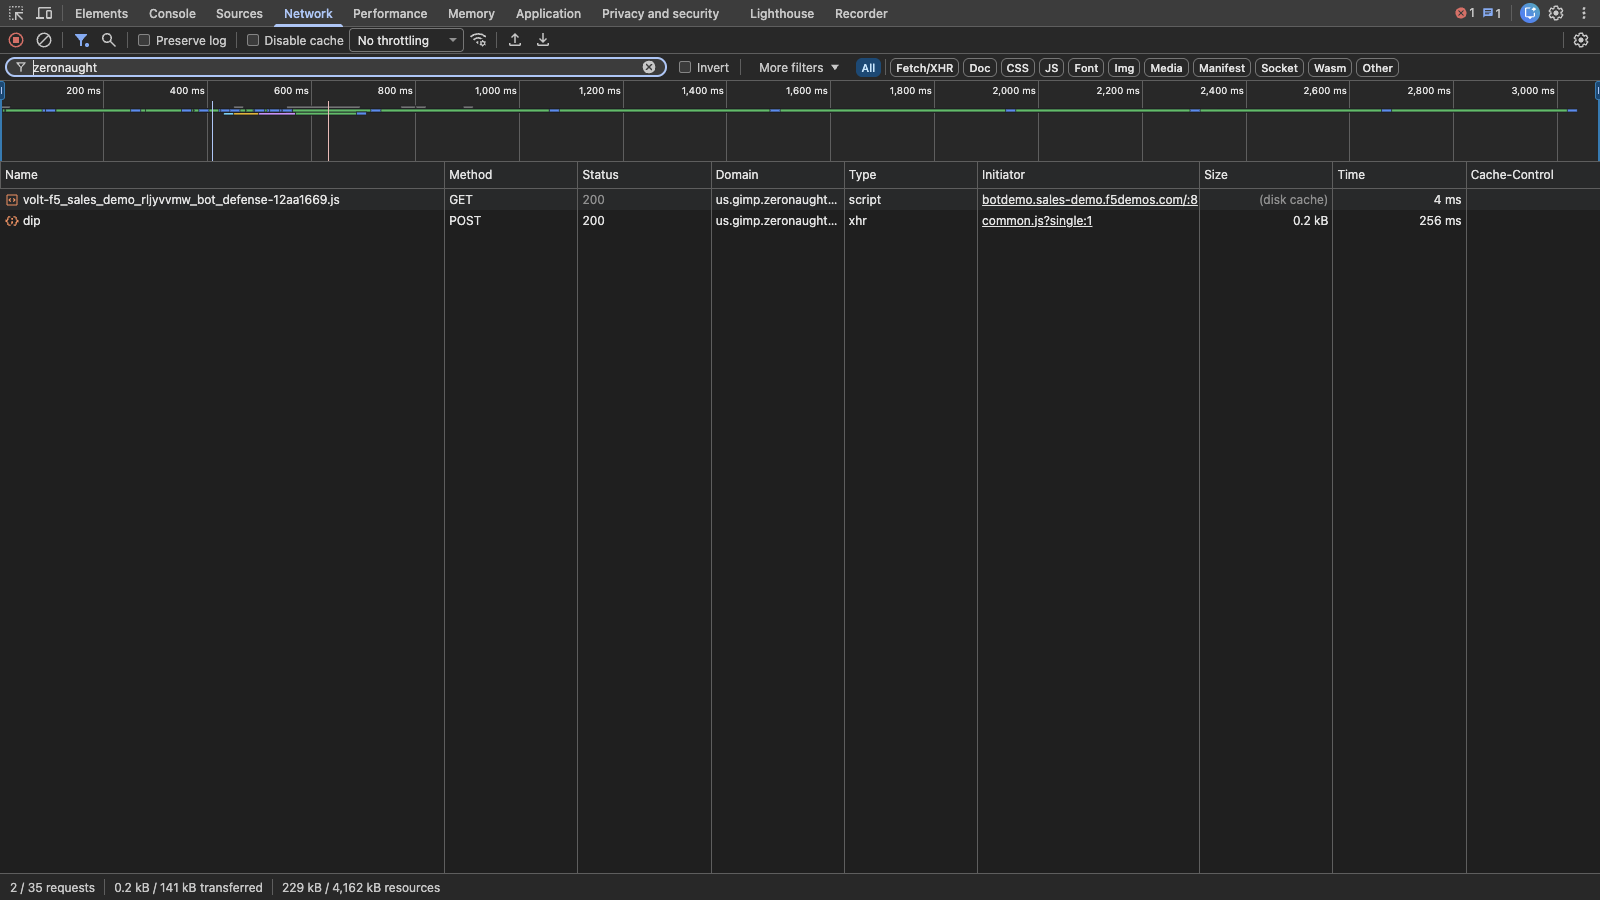
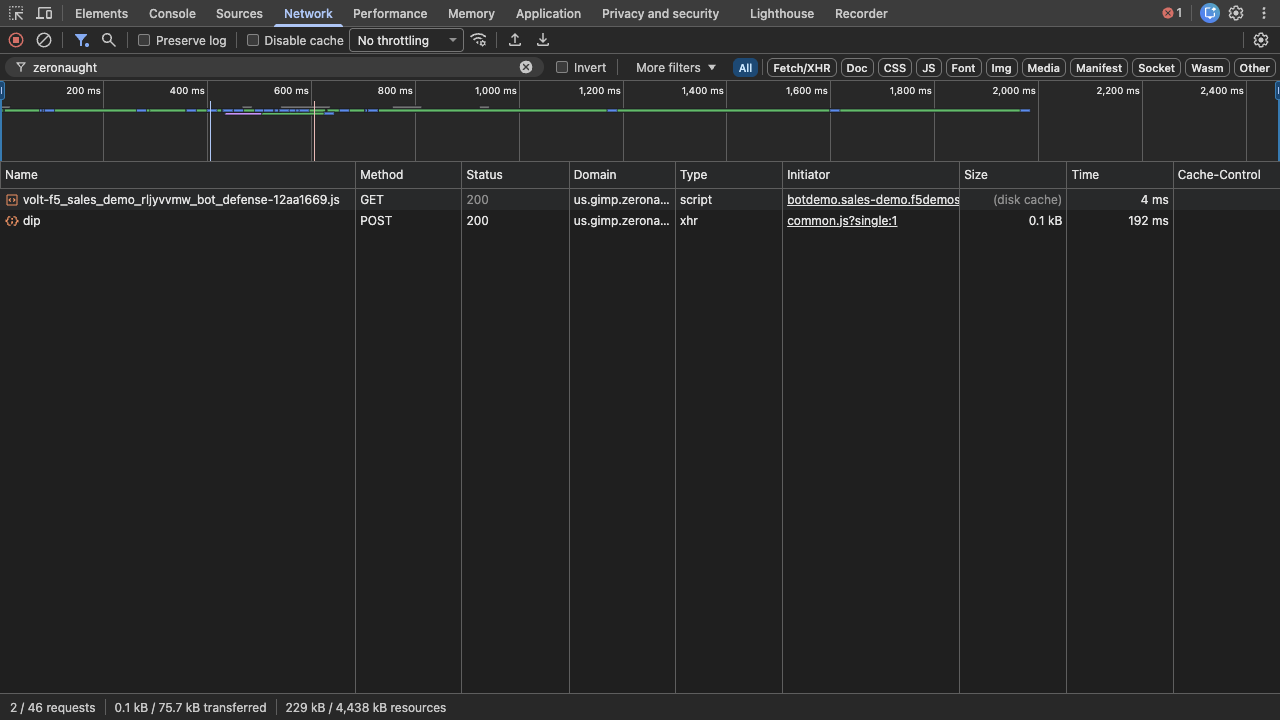
fix: recapture DevTools screenshots at 1280x720 for improved readability (#183)
Introduces a dual-resolution standard: page screenshots remain at 1600x900
(HD+) while DevTools screenshots move to 1280x720 (HD). Both are 16:9 at
1x DPR. The smaller DevTools viewport makes text ~20% larger relative to
image dimensions, significantly improving legibility when scaled down on
the docs site.

Closes #182

diff --git a/SCREENSHOT-INSTRUCTIONS.md b/SCREENSHOT-INSTRUCTIONS.md
@@ -6,20 +6,26 @@ Instructions for programmatically configuring, interacting with, and screenshott
 
 ## Screenshot Dimensions Standard
 
-All screenshots in this project must be **1600x900 pixels at 1x DPR (16:9)**. This is the industry-standard documentation aspect ratio and produces clean, focused captures of the XC console UI.
+This project uses a **dual-resolution standard** — both 16:9 aspect ratio, at 1x DPR:
 
-| Property | Value |
-| --- | --- |
-| Target dimensions | 1600 x 900 px (16:9) |
-| Device pixel ratio | 1x |
-| Format | PNG |
-| Location | `docs/images/` |
-| Naming convention | `<name>-light.png` / `<name>-dark.png` for theme variants |
+| Screenshot type | Dimensions | Rationale |
+| --- | --- | --- |
+| **Page screenshots** (XC console, web app) | **1600 x 900** (HD+) | Full-width UI captures render well in the docs content column |
+| **DevTools screenshots** (Network, Console, Elements) | **1280 x 720** (HD) | Smaller viewport makes DevTools text ~20% larger relative to the image, improving readability when scaled down on the docs site |
+
+| Property | Page | DevTools |
+| --- | --- | --- |
+| Target dimensions | 1600 x 900 px | 1280 x 720 px |
+| Aspect ratio | 16:9 | 16:9 |
+| Device pixel ratio | 1x | 1x |
+| Format | PNG | PNG |
+| Location | `docs/images/` | `docs/images/` |
+| Naming convention | `<name>-light.png` / `<name>-dark.png` | `<name>-light.png` / `<name>-dark.png` |
 
 **How this applies to each approach:**
 
 - **Page screenshots** (chrome-devtools-mcp): Use `emulate` with viewport `"1600x900x1"` before capture — this forces exact pixel dimensions at 1x DPR. Verify with `sips -g pixelWidth -g pixelHeight`.
-- **DevTools screenshots** (CDP): Use `Emulation.setDeviceMetricsOverride` with `width: 1600, height: 900, deviceScaleFactor: 1` before `Page.captureScreenshot` — captures at exact 1600x900. No post-capture resize needed. Verify with `sips -g pixelWidth -g pixelHeight`.
+- **DevTools screenshots** (CDP): Use `Emulation.setDeviceMetricsOverride` with `width: 1280, height: 720, deviceScaleFactor: 1` before `Page.captureScreenshot` — captures at exact 1280x720. No post-capture resize needed. Verify with `sips -g pixelWidth -g pixelHeight`.
 - **After all page captures**: Reset emulation with `emulate` viewport `"0x0x0"` to restore defaults.
 
 ---
@@ -536,11 +542,11 @@ const outputPath = process.argv[3] || 'devtools-screenshot.png';
 
 const ws = new WebSocket(wsUrl);
 ws.on('open', () => {
-    // Force DevTools viewport to exact 1600x900 at 1x DPR
+    // Force DevTools viewport to exact 1280x720 at 1x DPR
     ws.send(JSON.stringify({
         id: 1,
         method: 'Emulation.setDeviceMetricsOverride',
-        params: { width: 1600, height: 900, deviceScaleFactor: 1, mobile: false }
+        params: { width: 1280, height: 720, deviceScaleFactor: 1, mobile: false }
     }));
 });
 
@@ -577,7 +583,7 @@ JSEOF
 NODE_PATH=$(npm root -g) node /tmp/cdp-screenshot.cjs "$DEVTOOLS_WS" "devtools-screenshot.png"
 ```
 
-**After capture, verify dimensions (no resize needed — Emulation override produces exact 1600x900):**
+**After capture, verify dimensions (no resize needed — Emulation override produces exact 1280x720):**
 
 ```bash
 sips -g pixelWidth -g pixelHeight devtools-screenshot.png
@@ -590,7 +596,7 @@ mv devtools-screenshot.png docs/images/devtools-screenshot.png
 - No `.app` wrapper needed
 - Works reliably across process restarts (no TCC flakiness)
 - Works headless (no window needs to be visible)
-- `Emulation.setDeviceMetricsOverride` captures at exact 1600x900 — no post-capture resize, no aspect ratio distortion
+- `Emulation.setDeviceMetricsOverride` captures at exact 1280x720 — no post-capture resize, no aspect ratio distortion
 
 ### Method 2: screencapture (Fallback)
 
@@ -1083,11 +1089,11 @@ const outputPath = process.argv[3];
 
 const ws = new WebSocket(wsUrl);
 ws.on('open', () => {
-    // Force DevTools viewport to exact 1600x900 at 1x DPR
+    // Force DevTools viewport to exact 1280x720 at 1x DPR
     ws.send(JSON.stringify({
         id: 1,
         method: 'Emulation.setDeviceMetricsOverride',
-        params: { width: 1600, height: 900, deviceScaleFactor: 1, mobile: false }
+        params: { width: 1280, height: 720, deviceScaleFactor: 1, mobile: false }
     }));
 });
 
@@ -1122,7 +1128,7 @@ JSEOF
 
 NODE_PATH=$(npm root -g) node /tmp/cdp-screenshot.cjs "$DEVTOOLS_WS" "$OUTPUT"
 
-# 6. Verify dimensions (no resize needed — Emulation override produces exact 1600x900)
+# 6. Verify dimensions (no resize needed — Emulation override produces exact 1280x720)
 echo "Final dimensions:"
 sips -g pixelWidth -g pixelHeight "$OUTPUT"
 ```
@@ -1432,7 +1438,7 @@ pkill -f "Google Chrome" 2>/dev/null || true
 
 # 10. Note on Retina displays
 echo "On Retina displays, CDP captures at native resolution (e.g., ~2824x1636)."
-echo "DevTools: Emulation.setDeviceMetricsOverride captures at exact 1600x900 — no resize needed."
+echo "DevTools: Emulation.setDeviceMetricsOverride captures at exact 1280x720 — no resize needed."
 echo "screencapture: Resize 2x captures with sips -z 900 1600 <input> --out docs/images/<name>.png"
 ```
 
@@ -1509,12 +1515,12 @@ Use `centerY` for new annotations. Open the raw screenshot in Preview, hover ove
 NODE_PATH=$(npm root -g) node scripts/annotate-screenshot.cjs \
   docs/images/raw-devtools-elements.png \
   docs/images/csd-injected-scripts.png \
-  1600 900 \
+  1280 720 \
   '[
-    {"text":"CSD Telemetry (sync)","class":"badge-csd","centerY":135,"left":420},
-    {"text":"Third-party","class":"badge-thirdparty","centerY":300,"left":850},
-    {"text":"Third-party","class":"badge-thirdparty","centerY":323,"left":740},
-    {"text":"CSD Telemetry (async)","class":"badge-csd","centerY":347,"left":740}
+    {"text":"CSD Telemetry (sync)","class":"badge-csd","centerY":108,"left":336},
+    {"text":"Third-party","class":"badge-thirdparty","centerY":240,"left":680},
+    {"text":"Third-party","class":"badge-thirdparty","centerY":258,"left":592},
+    {"text":"CSD Telemetry (async)","class":"badge-csd","centerY":278,"left":592}
   ]'
 ```
 
@@ -1522,7 +1528,7 @@ NODE_PATH=$(npm root -g) node scripts/annotate-screenshot.cjs \
 
 1. **Take the screenshot first**, then open it in Preview or a browser to find the pixel coordinates for badge placement.
 2. **Use `centerY` for vertical positioning.** Open the raw screenshot in Preview. Hover over the vertical center of the target row — the Y coordinate is your `centerY` value. No offset math needed.
-3. **Coordinates are relative to the output dimensions** (e.g., 1600x900), not the source image's native resolution. The annotation tool scales the source image to fit.
+3. **Coordinates are relative to the output dimensions** (e.g., 1280x720 for DevTools, 1600x900 for pages), not the source image's native resolution. The annotation tool scales the source image to fit.
 4. **Place badges inline with the code/content they annotate** — typically to the right of the element, vertically centered on the line.
 5. **Use `sips -g pixelWidth -g pixelHeight`** to verify the final annotated image is the correct dimensions.
 
@@ -1548,7 +1554,7 @@ Or use inline styles in the badge JSON:
 
 ## 12. Tips for AI Agents
 
-1. **All screenshots must be 1600x900 at 1x DPR (16:9).** For page screenshots, use `emulate` with viewport `"1600x900x1"`. For DevTools screenshots, use `Emulation.setDeviceMetricsOverride` with `width: 1600, height: 900, deviceScaleFactor: 1` before `Page.captureScreenshot` — no post-capture resize needed. Always verify with `sips -g pixelWidth -g pixelHeight`.
+1. **Dual-resolution standard (both 16:9, 1x DPR).** Page screenshots: `emulate` with viewport `"1600x900x1"`. DevTools screenshots: `Emulation.setDeviceMetricsOverride` with `width: 1280, height: 720, deviceScaleFactor: 1` before `Page.captureScreenshot`. The smaller DevTools viewport makes text ~20% larger relative to the image. Always verify with `sips -g pixelWidth -g pixelHeight`.
 
 2. **Use CDP when capturing a single target.** The CDP approach (Sections 4-5) requires zero macOS permissions and works well for isolated DevTools or page screenshots. However, CDP can only screenshot one target at a time. For **combined page+DevTools screenshots** (the most common use case), you must use `screencapture -l` (Method 3), which requires Screen Recording permission.
 
@@ -1556,7 +1562,7 @@ Or use inline styles in the badge JSON:
    - Kill Chrome → edit preferences (columns, filters, dock state, panel) → relaunch with `--remote-debugging-port=9222 --auto-open-devtools-for-tabs`
    - For runtime interaction: CDP to open Command Menu, type commands, press Enter
    - Screenshot via CDP `Page.captureScreenshot` on the DevTools page target
-   - `Emulation.setDeviceMetricsOverride` captures at exact 1600x900 — no resize needed
+   - `Emulation.setDeviceMetricsOverride` captures at exact 1280x720 — no resize needed
    - **No macOS permissions needed for any of this**
 
 4. **Kill Chrome before editing preferences.** Chrome overwrites preferences on exit. The correct order is: kill → edit → relaunch. Never edit while Chrome is running.
@@ -1666,7 +1672,7 @@ dp["uiTheme"] = '"dark"'
 2. Set `uiTheme` to `"default"` in preferences, launch Chrome, capture DevTools screenshot, save as `<name>-light.png`
 3. Kill Chrome
 4. Set `uiTheme` to `"dark"` in preferences, launch Chrome, capture DevTools screenshot, save as `<name>-dark.png`
-5. Verify both are 1600x900 with `sips -g pixelWidth -g pixelHeight` (no resize needed with Emulation override)
+5. Verify both are 1280x720 with `sips -g pixelWidth -g pixelHeight` (no resize needed with Emulation override)
 
 ### Combined page+DevTools screenshots in both themes
 
